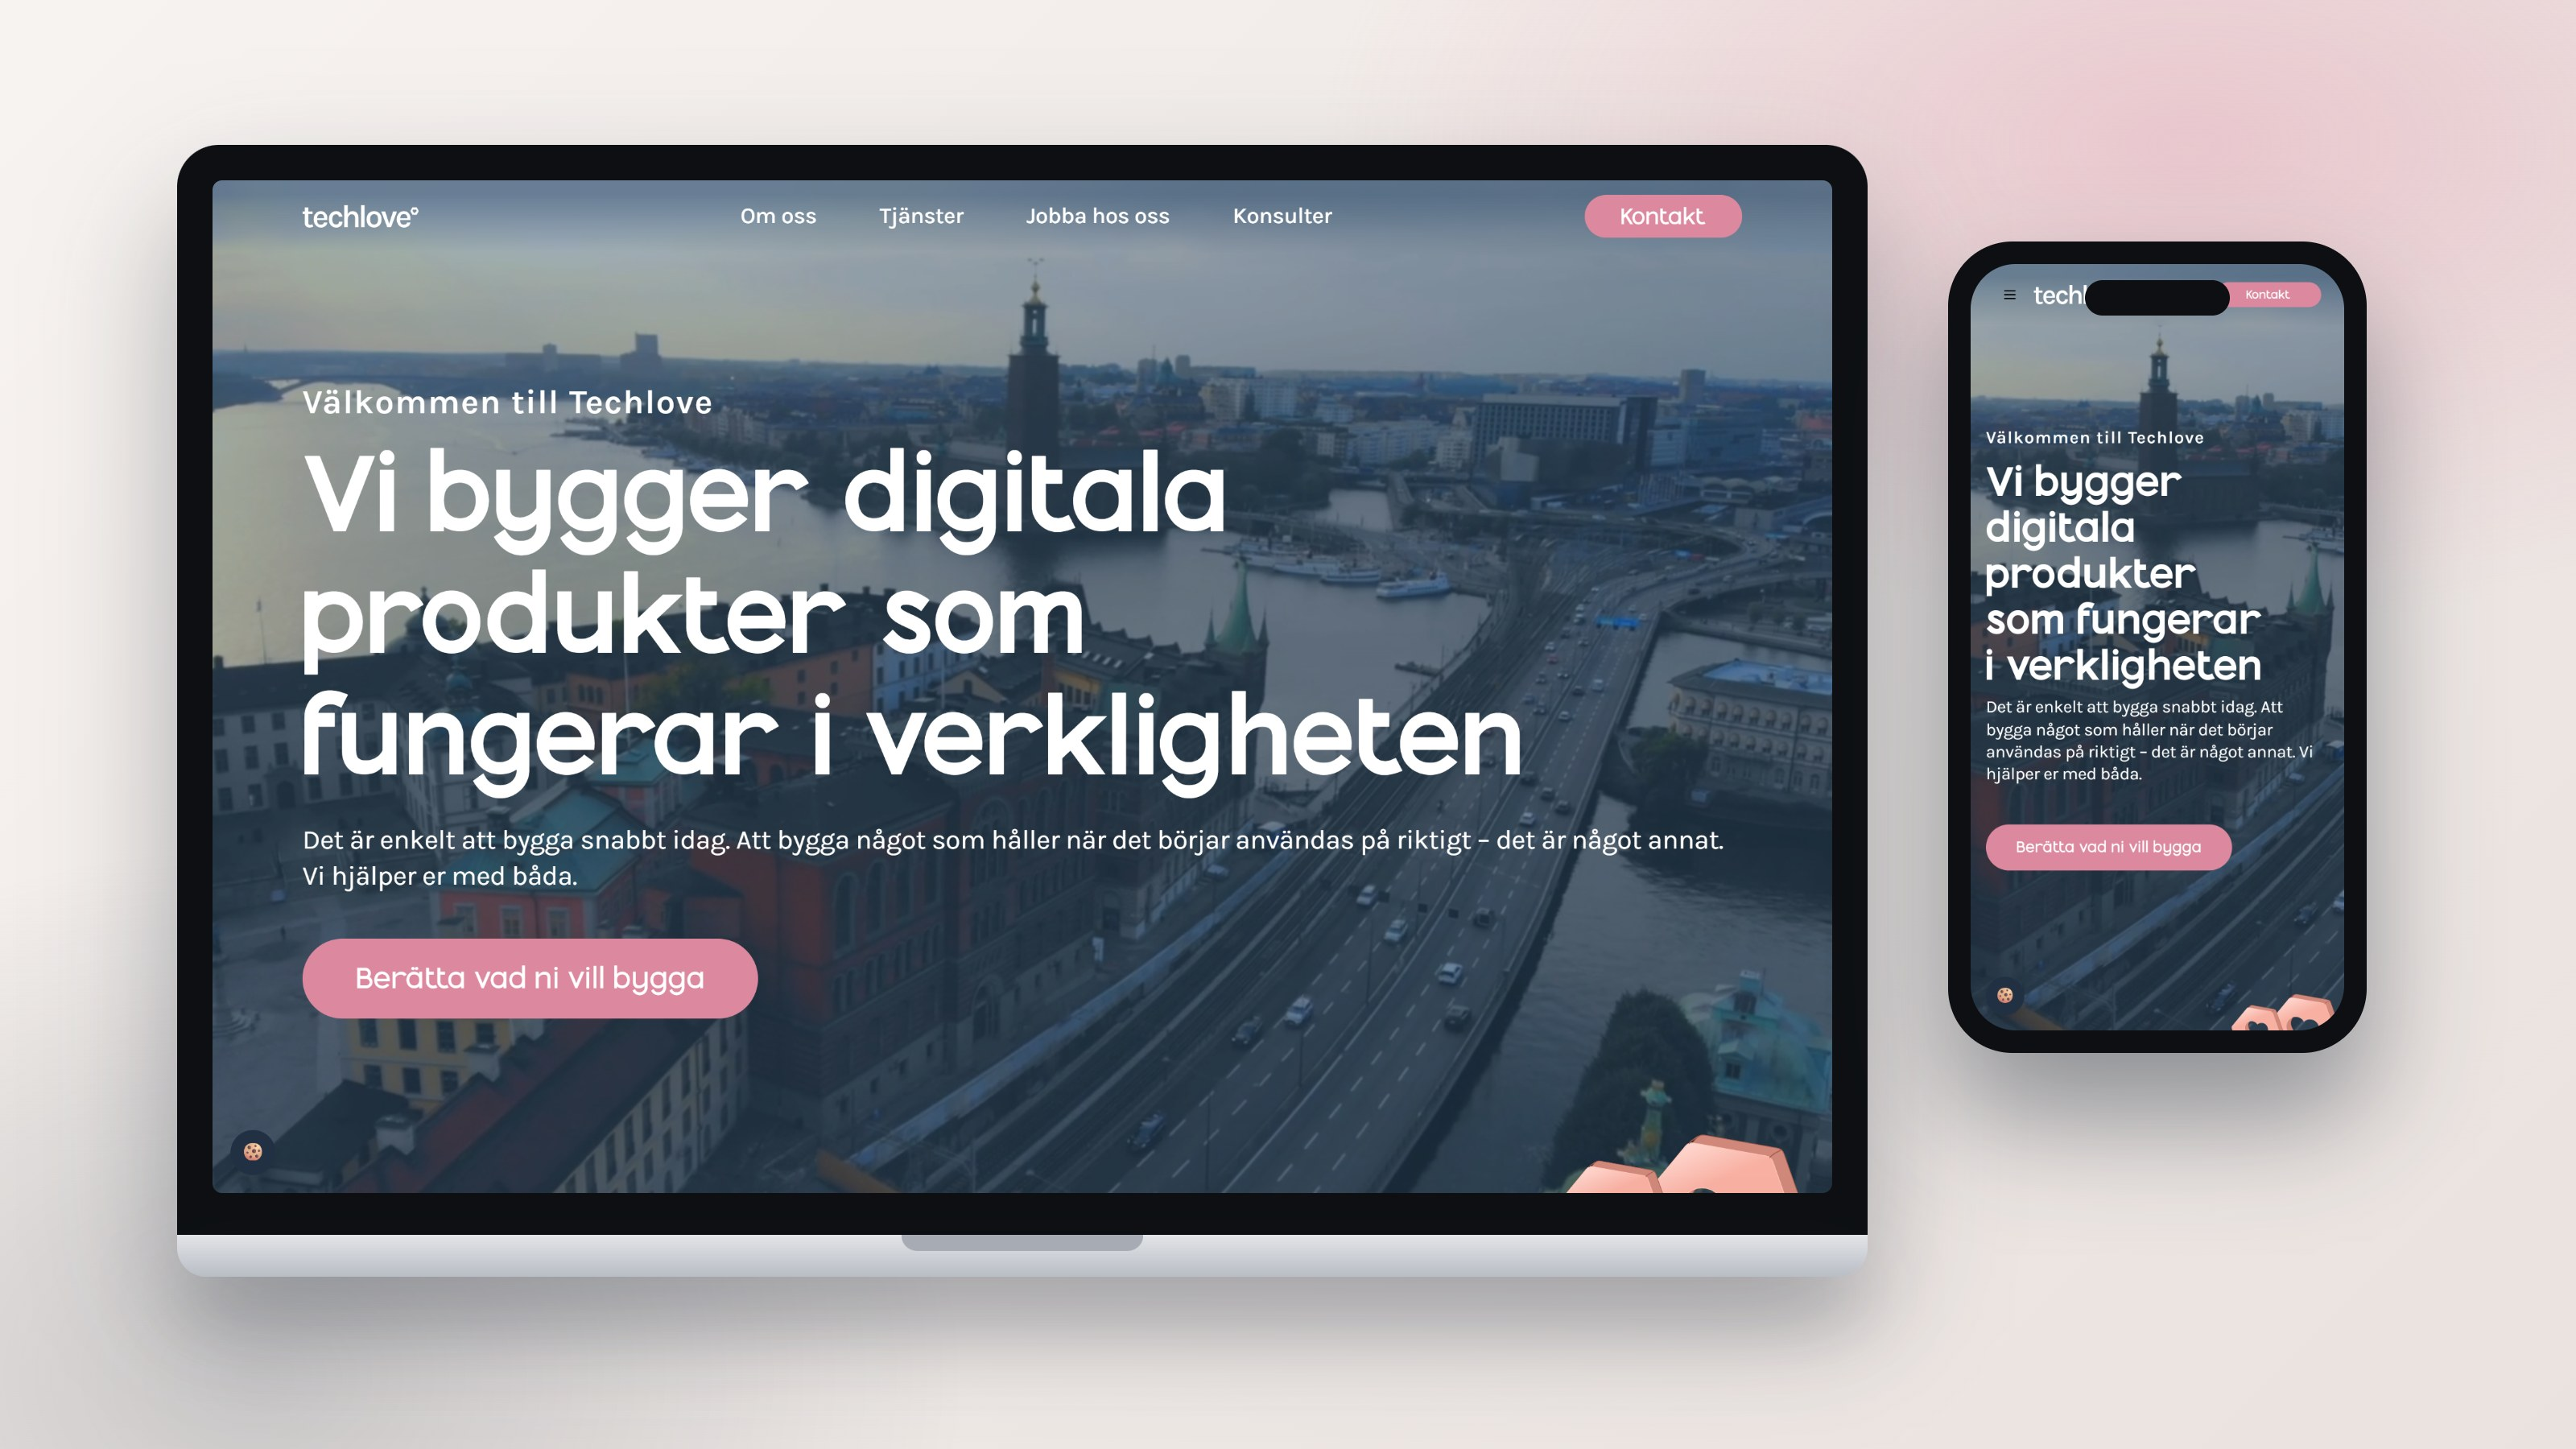
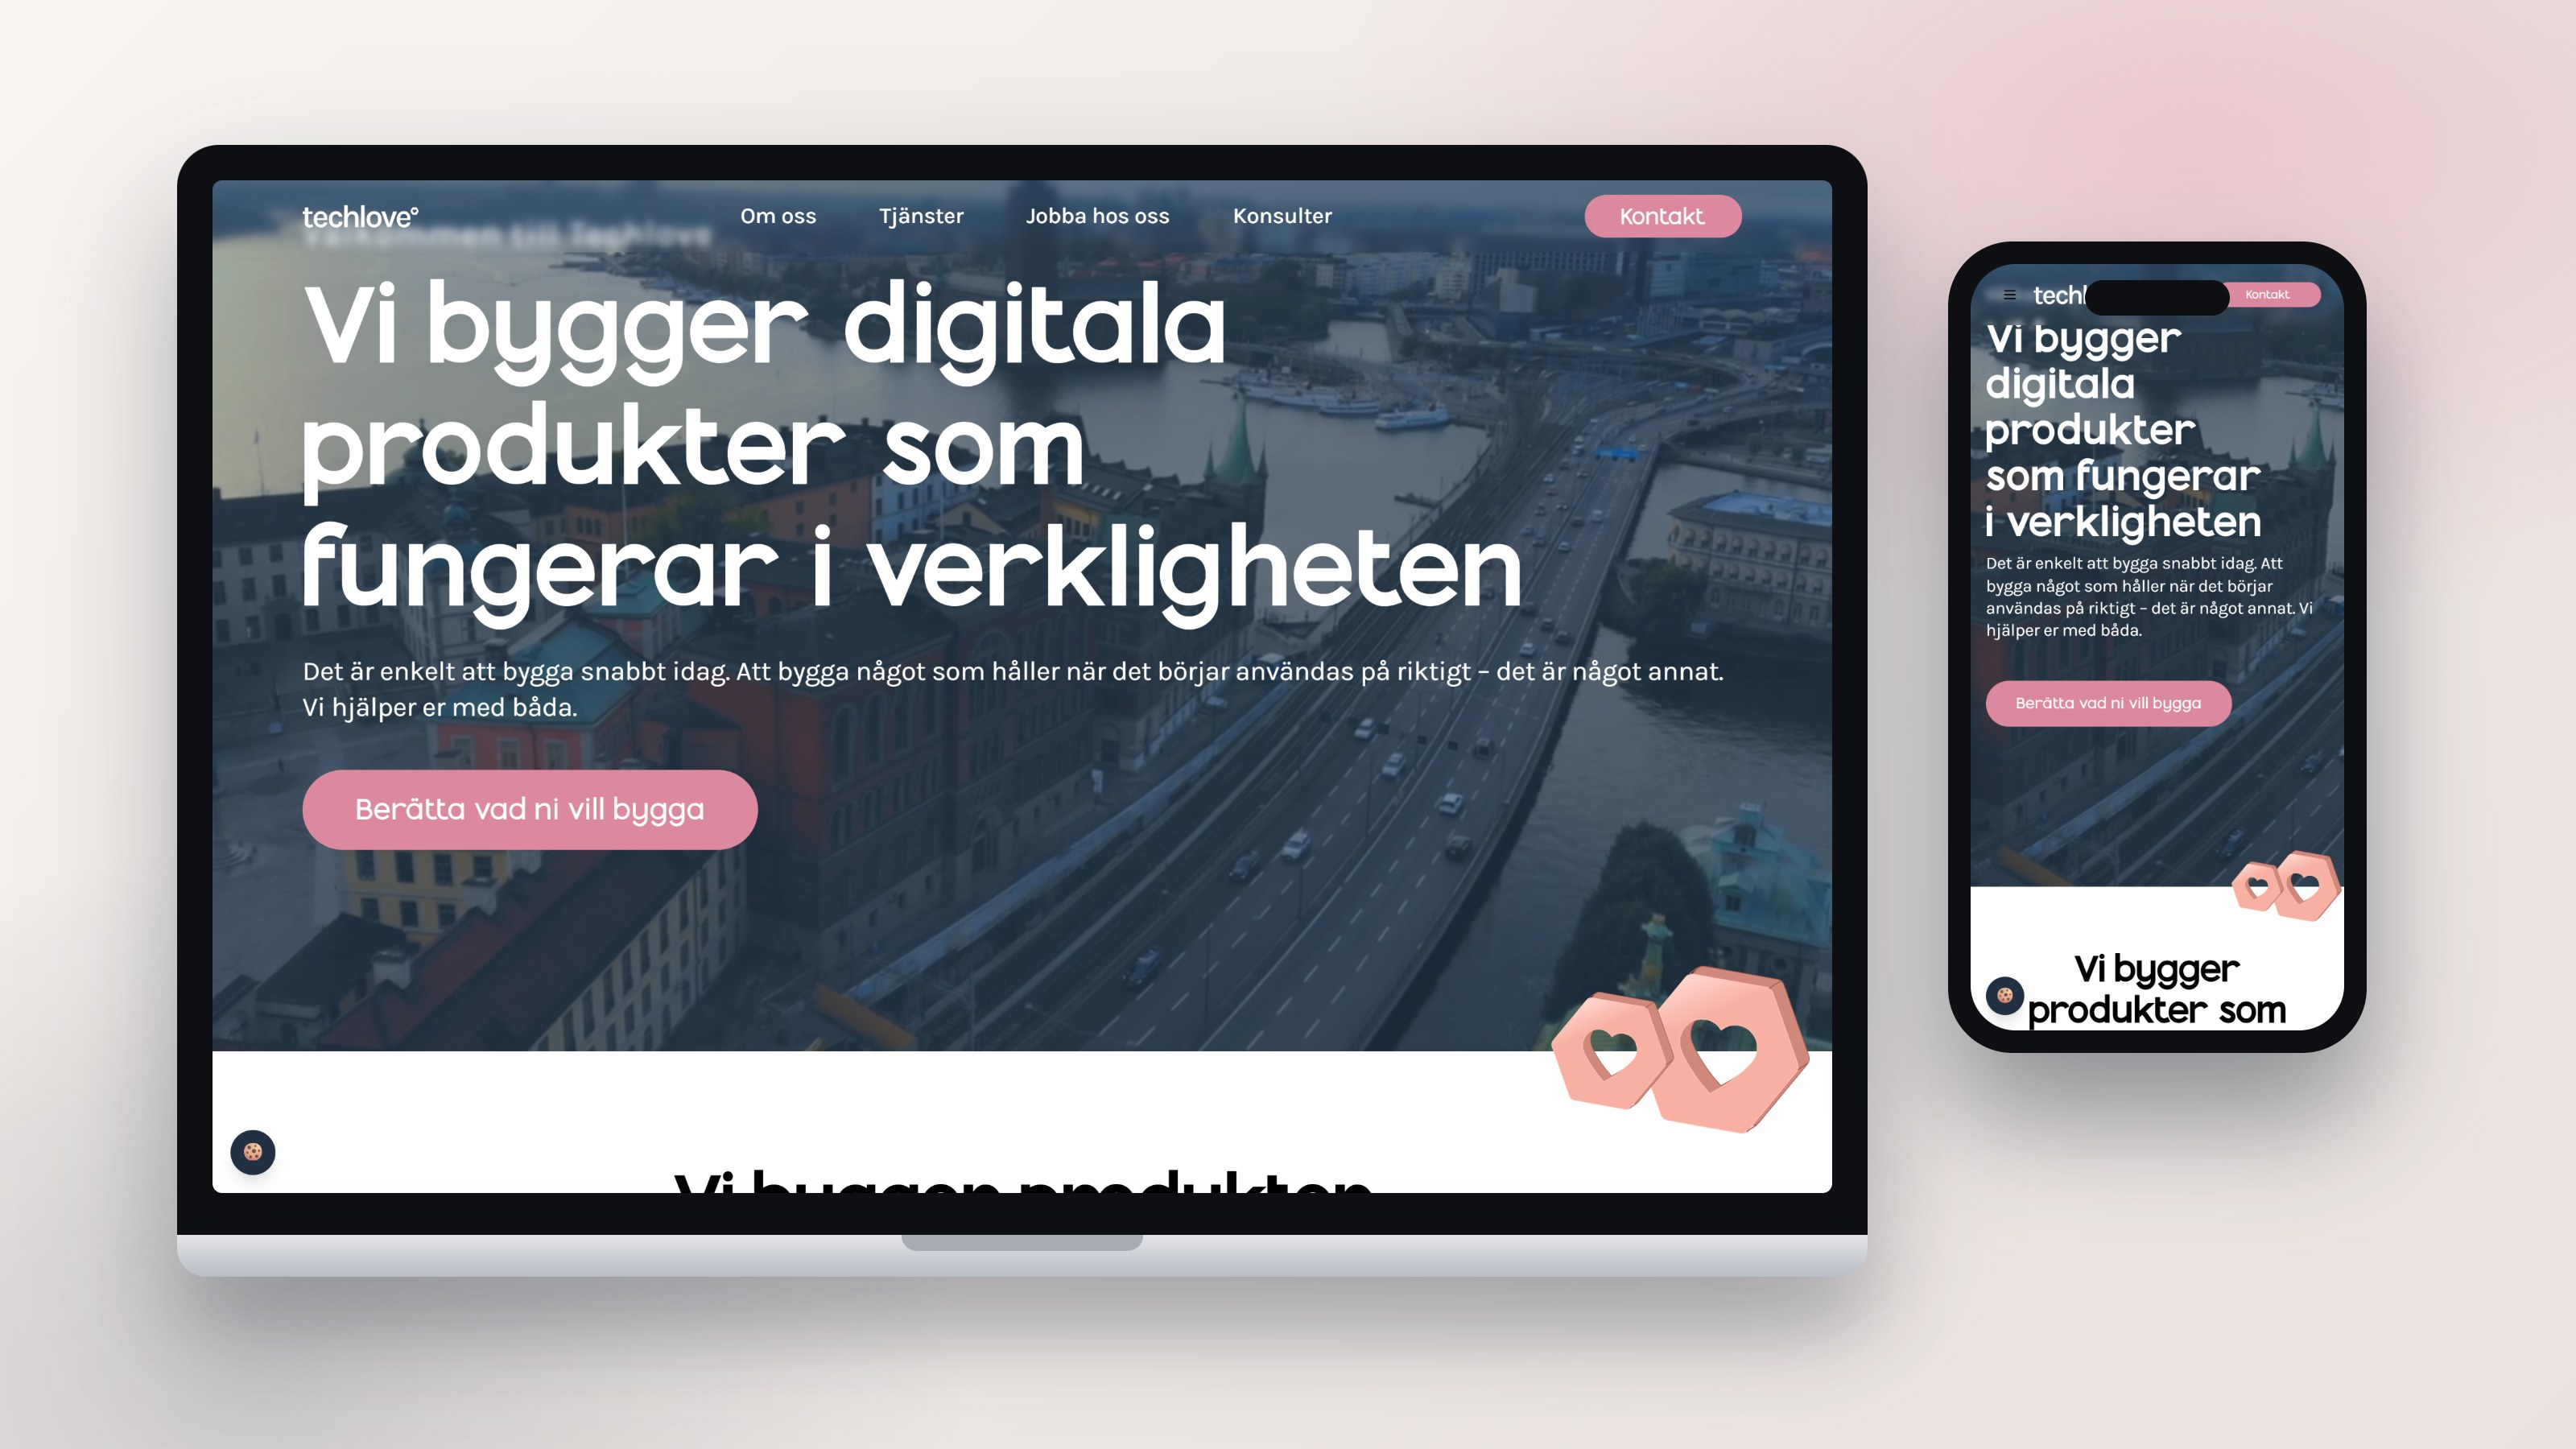
Tighten Techlove case study layout
- Hero mockup captures the live site scrolled to show the heart logo
- Timeline drops the connector line that showed through the circles
- Three process sections merged into one, four design system
  sections merged into one
- Website page previews get a border and drop shadow via a new
  per-section imageFrame flag

diff --git a/src/data/projects.ts b/src/data/projects.ts
@@ -39,6 +39,7 @@ export interface ProjectSection {
   tokenFlow?: TokenFlowRow[]
   images?: ProjectImage[]
   imageColumns?: 2 | 3
+  imageFrame?: boolean
 }
 
 export interface Project {
@@ -121,6 +122,10 @@ export const projects: Project[] = [
       {
         kicker: 'Process',
         heading: 'Eight weeks from audit to adoption',
+        body: [
+          'Before building anything new, we catalogued every color, text style, and repeating UI pattern across the website and social channels — with AI tooling clustering recurring patterns into component candidates, so the design judgment could stay human.',
+          'The audit made the problem measurable and became the business case for a system instead of another one-off redesign.',
+        ],
         timeline: [
           {
             phase: 'Design audit',
@@ -147,46 +152,17 @@ export const projects: Project[] = [
         ],
       },
       {
-        kicker: 'Process',
-        heading: 'Finding the system hiding in the UI',
-        body: [
-          'Before building anything new, we catalogued what already existed: every color value, every text style, every repeating pattern across the website and social channels.',
-          'The audit made the problem measurable — dozens of near-identical colors and styles doing the same job — and became the business case for a system instead of another one-off redesign.',
-        ],
-      },
-      {
-        kicker: 'Process',
-        heading: 'AI as an audit accelerator',
-        body: [
-          'I used AI tooling to scan existing pages and cluster recurring UI patterns into component candidates. Instead of manually comparing dozens of screens, I could focus on the design decisions: what deserves to be a component, what is a variant, and what should be retired.',
-          'AI accelerated the analysis — the design judgment stayed human.',
-        ],
-      },
-      {
         kicker: 'Design System',
-        heading: 'From audit to architecture',
+        heading: 'Two token layers, one source of truth',
         body: [
-          'The system is built in two token layers. Primitives hold the raw values; semantic tokens describe intent — what a color does, not what it looks like. Components consume only semantic tokens, so the whole system stays consistent by construction.',
+          'The system is built in two token layers. Primitive tokens hold the raw values — color steps like Blush 500 or Ink 800, plus type and spacing scales. Semantic tokens map each primitive to a role: button background, heading text, footer surface.',
+          'Components consume only semantic tokens, so changing one primitive value updates every screen — a rebrand becomes a token update, not a redesign project. 20+ components are documented with variants and usage rules in a shared Figma library that developers map one-to-one in code.',
         ],
         metrics: [
           { value: '2', label: 'Token layers' },
           { value: '4', label: 'Primitive color families' },
           { value: '18', label: 'Semantic tokens' },
           { value: '20+', label: 'Reusable components' },
-        ],
-      },
-      {
-        kicker: 'Design System',
-        heading: 'Primitives: a small set of raw decisions',
-        body: [
-          'Primitive tokens are the foundation — named color steps like Blush 500 or Ink 800, plus type and spacing scales. They know nothing about where they are used, which makes them safe to evolve.',
-        ],
-      },
-      {
-        kicker: 'Design System',
-        heading: 'Semantic tokens describe intent, not appearance',
-        body: [
-          'Each semantic token maps a primitive to a role — button background, heading text, footer surface. Change one primitive value and every component using it updates automatically. That is what makes the system scalable: a rebrand becomes a token update, not a redesign project.',
         ],
         tokenFlow: [
           {
@@ -207,13 +183,6 @@ export const projects: Project[] = [
             semantic: 'color/surface/dark',
             usage: 'Footer and dark sections',
           },
-        ],
-      },
-      {
-        kicker: 'Design System',
-        heading: 'One source of truth for every component',
-        body: [
-          'Typography, buttons, cards, forms, navigation — 20+ components documented with variants and usage rules in a shared Figma library. Designers compose pages instead of drawing them; developers map each component one-to-one in code.',
         ],
         imageColumns: 2,
         images: [
@@ -242,6 +211,7 @@ export const projects: Project[] = [
           'The redesigned website was the first proof of the system — service, about, article, and insights pages all composed entirely from library components and semantic tokens.',
         ],
         imageColumns: 2,
+        imageFrame: true,
         images: [
           {
             src: asset('/images/techlove-page-appdev.jpg'),

diff --git a/src/pages/CaseStudy.tsx b/src/pages/CaseStudy.tsx
@@ -131,13 +131,7 @@ export default function CaseStudy() {
                 {section.timeline && (
                   <ol className="mb-5">
                     {section.timeline.map((step, stepIndex) => (
-                      <li key={step.phase} className="relative flex gap-5 pb-8 last:pb-0">
-                        {stepIndex < (section.timeline?.length ?? 0) - 1 && (
-                          <span
-                            aria-hidden="true"
-                            className="absolute top-9 left-4 h-full w-px bg-line"
-                          />
-                        )}
+                      <li key={step.phase} className="flex gap-5 pb-8 last:pb-0">
                         <span className="flex h-8 w-8 shrink-0 items-center justify-center rounded-full border border-accent text-xs font-semibold text-accent">
                           {stepIndex + 1}
                         </span>
@@ -211,7 +205,11 @@ export default function CaseStudy() {
                         src={image.src}
                         alt={image.alt}
                         loading="lazy"
-                        className="w-full rounded-xl bg-surface"
+                        className={
+                          section.imageFrame
+                            ? 'w-full rounded-xl border border-line bg-surface shadow-[0_16px_40px_rgba(25,28,31,0.14)]'
+                            : 'w-full rounded-xl bg-surface'
+                        }
                       />
                     ))}
                   </div>